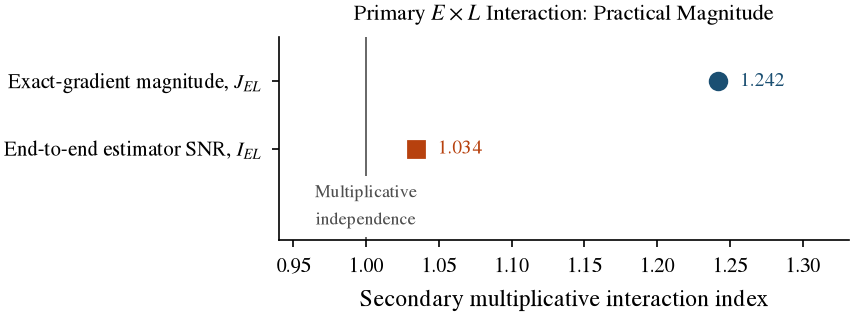
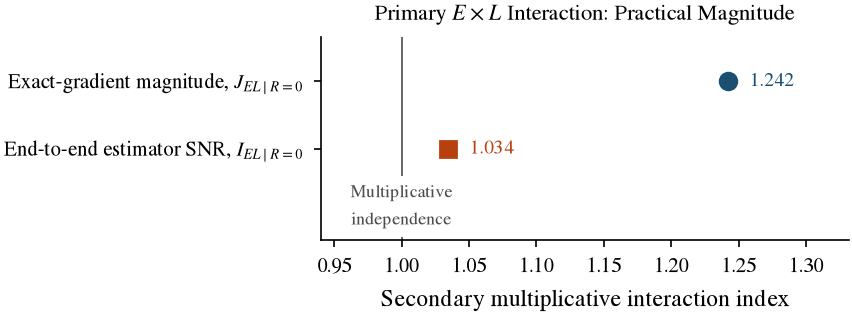
Reconcile Figure 0 source and manuscript reference

diff --git a/paper/scripts/make_fig0_el_primary.py b/paper/scripts/make_fig0_el_primary.py
@@ -1,6 +1,6 @@
 """Figure 0 (fig:el-primary): secondary multiplicative interaction indices
-I_EL (end-to-end estimator SNR) and J_EL (exact-gradient magnitude) for the
-E x L pair.
+I_EL_given_R0 (end-to-end estimator SNR) and J_EL_given_R0
+(exact-gradient magnitude) for the E x L pair conditional on R=0.
 
 This script replaces a prior `fig0_el_primary.pdf` that was found to be
 untrusted: no generation script for it existed anywhere in this repository
@@ -36,13 +36,14 @@ Source-of-truth rules (see verification/fig0_el_primary_regeneration.md):
 from __future__ import annotations
 
 import hashlib
-import subprocess
+import json
 import sys
-from datetime import datetime, timezone
 from pathlib import Path
 
 import numpy as np
 import pandas as pd
+import matplotlib
+matplotlib.use("Agg")
 import matplotlib.pyplot as plt
 
 sys.path.insert(0, str(Path(__file__).parent))
@@ -57,6 +58,7 @@ from qnn_snr.stats.interactions import compute_interaction_indices  # noqa: E402
 
 POINTWISE_PATH = REPO_ROOT / "results" / "production_confirmatory" / "pointwise_gradient_statistics.parquet"
 EXACT_PATH = REPO_ROOT / "results" / "production_confirmatory" / "raw" / "exact.parquet"
+RUN_MANIFEST_PATH = REPO_ROOT / "results" / "production_confirmatory" / "run_manifest.json"
 CONFIRMATORY_MODE = "finite_shot_end_to_end"
 EXACT_MODE = "statevector_exact"
 
@@ -248,27 +250,28 @@ def main():
     print(f"Component aggregates (RMS): G_0={G0!r} G_E={GE!r} G_L={GL!r} G_EL={GEL!r}")
 
     # ---- write figure-source CSV ----
-    git_commit = subprocess.check_output(["git", "rev-parse", "HEAD"], cwd=REPO_ROOT).decode().strip()
-    generated_at = datetime.now(timezone.utc).isoformat()
+    source_manifest = json.loads(RUN_MANIFEST_PATH.read_text(encoding="utf-8"))
+    git_commit = source_manifest["git_commit"]
+    generated_at = source_manifest["end_time"]
     pw_hash = sha256_of(POINTWISE_PATH)
     exact_hash = sha256_of(EXACT_PATH)
 
     rows = [
         {
-            "metric": "I_EL", "analysis_mode": CONFIRMATORY_MODE,
+            "metric": "I_EL_given_R0", "analysis_mode": CONFIRMATORY_MODE,
             "baseline_aggregate": M0, "E_only_aggregate": ME, "L_only_aggregate": ML,
             "EL_aggregate": MEL, "interaction_index": I_EL,
             "formula": "combined * baseline / (single_E * single_L), aggregate = RMS(SNR_est)",
-            "source_file": str(POINTWISE_PATH.relative_to(REPO_ROOT)), "source_file_sha256": pw_hash,
+            "source_file": POINTWISE_PATH.relative_to(REPO_ROOT).as_posix(), "source_file_sha256": pw_hash,
             "row_count_before_filtering": pw_row_count_before, "row_count_after_filtering": pw_row_count_after,
             "matched_point_count": matched_point_count, "generated_at": generated_at, "git_commit": git_commit,
         },
         {
-            "metric": "J_EL", "analysis_mode": EXACT_MODE,
+            "metric": "J_EL_given_R0", "analysis_mode": EXACT_MODE,
             "baseline_aggregate": G0, "E_only_aggregate": GE, "L_only_aggregate": GL,
             "EL_aggregate": GEL, "interaction_index": J_EL,
             "formula": "combined * baseline / (single_E * single_L), aggregate = RMS(abs(exact_gradient))",
-            "source_file": str(EXACT_PATH.relative_to(REPO_ROOT)), "source_file_sha256": exact_hash,
+            "source_file": EXACT_PATH.relative_to(REPO_ROOT).as_posix(), "source_file_sha256": exact_hash,
             "row_count_before_filtering": exact_row_count_before, "row_count_after_filtering": exact_row_count_after,
             "matched_point_count": matched_point_count, "generated_at": generated_at, "git_commit": git_commit,
         },
@@ -283,8 +286,8 @@ def main():
     fig, ax = plt.subplots(figsize=(TEXT_WIDTH_IN * 0.64, 1.8))
 
     rows_plot = [
-        ("Exact-gradient magnitude, $J_{EL}$", J_EL, COLOR_SERIES_A, "o"),
-        ("End-to-end estimator SNR, $I_{EL}$", I_EL, COLOR_SERIES_B, "s"),
+        (r"Exact-gradient magnitude, $J_{EL\mid R=0}$", J_EL, COLOR_SERIES_A, "o"),
+        (r"End-to-end estimator SNR, $I_{EL\mid R=0}$", I_EL, COLOR_SERIES_B, "s"),
     ]
     y_positions = np.arange(len(rows_plot))[::-1]
     for i, (_label, val, color, marker) in enumerate(rows_plot):
@@ -310,7 +313,8 @@ def main():
 
     fig.tight_layout()
     PDF_OUT.parent.mkdir(parents=True, exist_ok=True)
-    fig.savefig(PDF_OUT)
+    fig.savefig(PDF_OUT, metadata={"CreationDate": None, "ModDate": None,
+                                   "Creator": "few-qubit-qnn-snr deterministic figure generator"})
     fig.savefig(PNG_OUT, dpi=200)
     print(f"\nwrote {PDF_OUT}")
     print(f"PDF sha256: {sha256_of(PDF_OUT)}")

diff --git a/paper/main.tex b/paper/main.tex
@@ -341,6 +341,13 @@ In the original dataset, the $E\times L$ interaction in exact-gradient magnitude
 
 The interaction is super-additive on the transformed exact-gradient scale, contradicting the protocol article's directional expectation of sub-additivity. A post-run depth-moderation term is small and not distinguishable from zero, so the exact-gradient direction is not explained by pooling over block counts with opposing effects. On the secondary multiplicative scale, $J_{EL}=1.242$, corresponding to a 24.2\% super-additive shift in RMS exact-gradient magnitude. This is a descriptive point summary without a separate interval and does not establish a training-time or shot-budget saving. The exact-gradient interaction is the study's primary empirical finding in the original dataset.
 
+\begin{figure}[t]
+\centering
+\includegraphics[width=0.64\textwidth]{figures/fig0_el_primary.pdf}
+\caption{Secondary multiplicative $E\times L$ indices conditional on $R=0$, shown for exact-gradient magnitude and end-to-end estimator SNR. The reference line at one denotes multiplicative independence. These descriptive indices are not equivalent to the centered mixed-model interactions.}
+\label{fig:el-primary}
+\end{figure}
+
 
 \subsection{Qualified finite-shot interaction}\label{sec:h2-result}
 

diff --git a/tests/test_figure_source_reconciliation.py b/tests/test_figure_source_reconciliation.py
@@ -1,0 +1,15 @@
+import hashlib
+from pathlib import Path
+import pandas as pd
+
+ROOT=Path(__file__).resolve().parents[1]
+def sha(p):return hashlib.sha256(p.read_bytes()).hexdigest()
+def test_archived_protected_bytes_are_lossless():
+ p=ROOT/'verification/figure_source_archive/fig0_el_primary_source.pre_reconciliation.csv'
[1 lines of base64/hex data omitted]
+def test_reconciled_source_is_conditional_and_referenced():
+ d=pd.read_csv(ROOT/'paper/figure_data/fig0_el_primary_source.csv')
+ assert set(d.metric)=={'I_EL_given_R0','J_EL_given_R0'}
+ assert set(d.git_commit)=={'cbbeafa853b0e87e153a783296fed1f9c750681a'}
+ main=(ROOT/'paper/main.tex').read_text(encoding='utf-8')
+ assert 'figures/fig0_el_primary.pdf' in main

diff --git a/tests/test_fig0_el_primary.py b/tests/test_fig0_el_primary.py
@@ -196,7 +196,7 @@ def test_script_run_produces_pdf_and_source_csv():
                       "source_file", "source_file_sha256", "row_count_before_filtering",
                       "row_count_after_filtering", "matched_point_count", "generated_at", "git_commit"}
     assert required_cols <= set(csv.columns)
-    assert set(csv["metric"]) == {"I_EL", "J_EL"}
+    assert set(csv["metric"]) == {"I_EL_given_R0", "J_EL_given_R0"}
 
 
 # --- 13. the manuscript-referenced figure path exists ---

diff --git a/verification/figure_source_reconciliation_results.md b/verification/figure_source_reconciliation_results.md
@@ -1,0 +1,11 @@
+# Figure-source and manuscript-reference reconciliation
+
+**Status:** completed reproducibility reconciliation under plan `645521db6511ca049d89e64f810e65a3407a7b52`.
+
[1 lines of base64/hex data omitted]
+
[1 lines of base64/hex data omitted]
+
+Repository history and `verification/fig0_el_primary_regeneration.md` show that the PDF was intended for the manuscript, while its `\includegraphics` was lost in later manuscript editing. A non-headline figure environment was restored immediately after the existing H1 multiplicative-index paragraph, with a caption explicitly identifying R=0 conditioning and non-equivalence to centered mixed-model interactions. The test was updated only for the clarified metric names; its manuscript-path assertion was retained and now passes. All 16 fig0 tests plus dedicated archive/source tests pass.
+
+No archived content was discarded, and no abstract, conclusion, title, or headline claim was edited.
